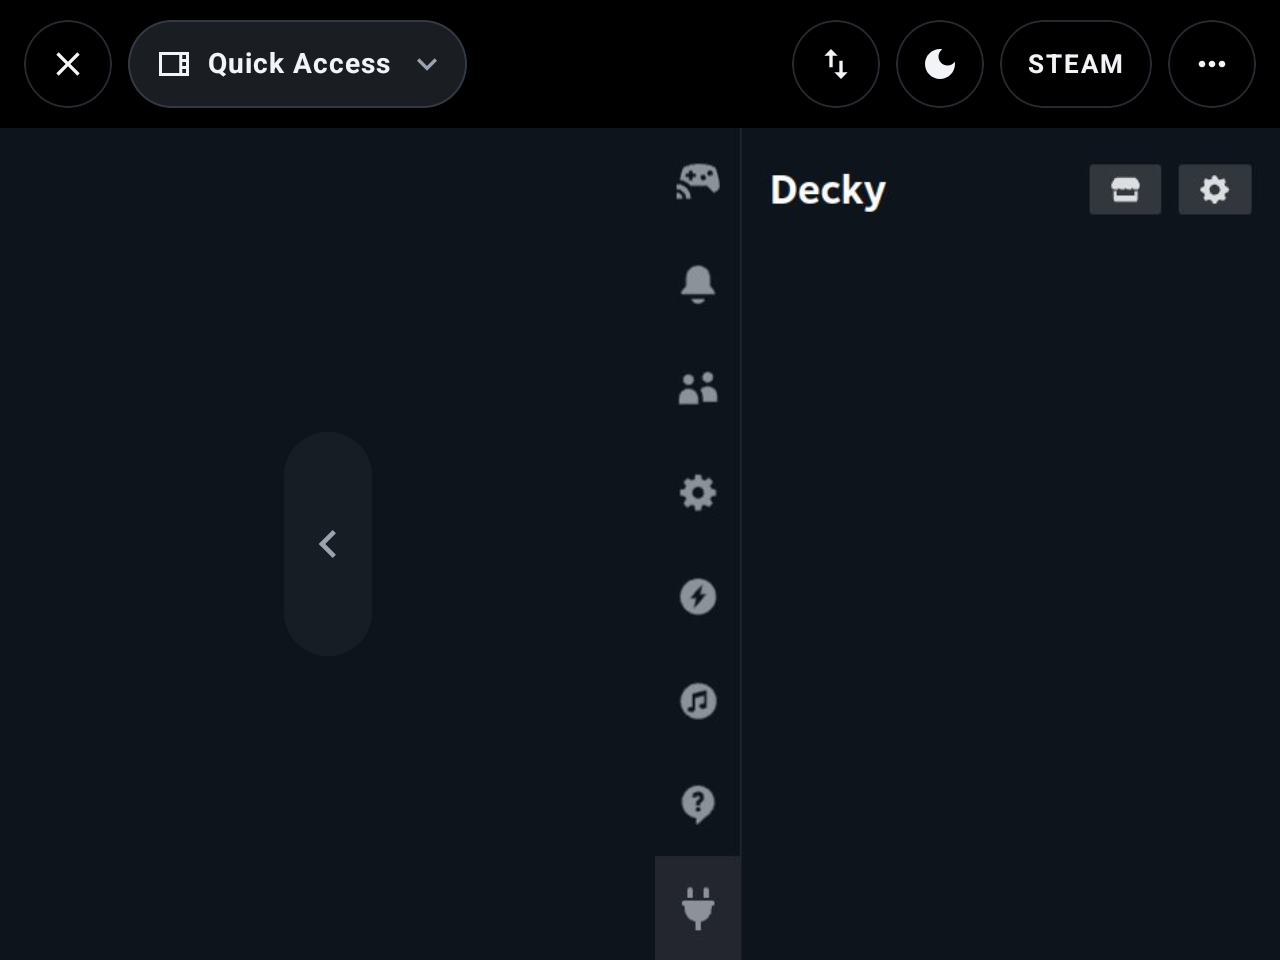
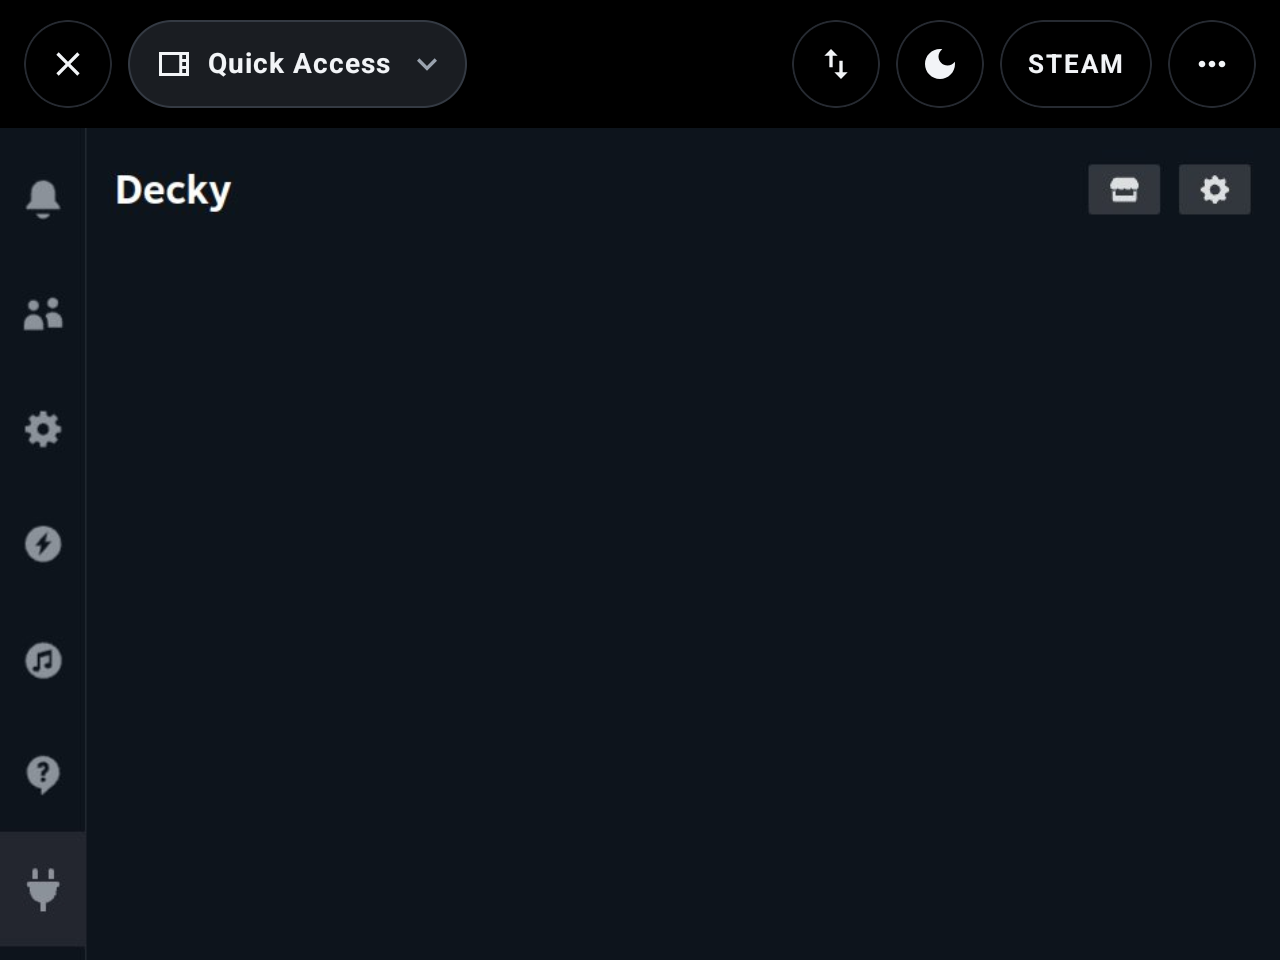
feat(bottom): Quick Access tabs fill the bottom screen

diff --git a/app/src/main/java/com/droiddeck/launcher/ui/BottomSteamQamPanel.kt b/app/src/main/java/com/droiddeck/launcher/ui/BottomSteamQamPanel.kt
@@ -84,8 +84,14 @@ internal object QamLayout {
 
     fun toCss(x: Float, y: Float, scale: Float, left: Float): Pair<Float, Float> = (x - left) / scale to y / scale
 
-    const val CONTENT_SCRIPT = "(() => { const w = innerWidth; let right = 0; for (const e of document.body.querySelectorAll('*')) { " +
-        "const r = e.getBoundingClientRect(); if (r.width > 0 && r.height > 0 && r.width < w * 0.75 && r.right > right) right = r.right; } " +
+    /** Makes the menu follow the panel-shaped view (Steam sizes it once, on open) and lifts each tab's 300 px cap, then measures where the content ends. */
+    const val CONTENT_SCRIPT = "(() => { let s = document.getElementById('dd-qam-wide'); " +
+        "if (!s) { s = document.createElement('style'); s.id = 'dd-qam-wide'; document.head.appendChild(s); } " +
+        "const css = 'div.BasicUI { width: 100% !important; } div[class*=\"tab_\"] { max-width: none !important; }'; " +
+        "if (s.textContent !== css) s.textContent = css; if (document.scrollingElement.scrollLeft) document.scrollingElement.scrollLeft = 0; " +
+        "const w = innerWidth; let right = 0; for (const e of document.body.querySelectorAll('*')) { " +
+        "const r = e.getBoundingClientRect(); const tab = /(^| )tab_/.test(String(e.className)); " +
+        "if (r.width > 0 && r.height > 0 && (tab || r.width < w * 0.75) && r.right > right) right = r.right; } " +
         "return JSON.stringify([w, innerHeight, devicePixelRatio, right]); })()"
 }
 

diff --git a/app/src/main/java/com/droiddeck/launcher/session/SteamQam.kt b/app/src/main/java/com/droiddeck/launcher/session/SteamQam.kt
@@ -71,7 +71,8 @@ object SteamQam {
                 return;
             }
             const decky = !!g.DeckyPluginLoader?.tabsHook?.qamBrowserViewPatch;
-            if (m.m_eOpenSideMenu === QAM && decky && !g.__ddQamDecky) m.CloseSideMenus();
+            // Decky hooks the menu after Steam starts; the menu has to unmount for its tab to appear, so reopen on the next tick.
+            if (m.m_eOpenSideMenu === QAM && decky && !g.__ddQamDecky) { g.__ddQamDecky = true; m.CloseSideMenus(); return; }
             if (m.m_eOpenSideMenu === 0) {
                 m.OpenQuickAccessMenu(g.__ddQamTab ?? undefined);
                 g.__ddQamDecky = decky;

diff --git a/docs/development/bottom-screen.md b/docs/development/bottom-screen.md
@@ -170,10 +170,10 @@ Details: [bottom-screen-companion-api.md](bottom-screen-companion-api.md).
 Plugin loaders expose Steam's CEF DevTools so the menu can be viewed in a desktop browser, but it renders only while it is open on the main screen. The panel keeps it open without covering the top screen:
 
 - Steam's UI is told to open the menu and keep it open: its composition request is capped at "notification" while the menu is ours, so gamescope keeps focus on the game, and losing focus no longer closes it. Gamepad focus moves from the menu back to the main UI only when the menu took it, so Steam's own popups keep the controller. The blurred backdrop is hidden.
-- The menu's browser view is placed just outside the Big Picture window through its own `SetBounds`, so it keeps rendering but never shows on top, including while Steam slides it wider for Friends and chat. The view is also given the panel's shape (about 712 × 463 instead of Steam's 856 × 463), so every tab shows at the same scale: Friends uses its compact list until a chat is opened, and the list with the chat then fills the panel.
+- The menu's browser view is placed just outside the Big Picture window through its own `SetBounds`, so it keeps rendering but never shows on top, including while Steam slides it wider for Friends and chat. The view is also given the panel's shape (about 712 × 463 instead of Steam's 856 × 463), and a style on the menu page lifts Steam's 300 px cap on each tab, so every tab fills the panel at one scale, with Friends showing its list and chat side by side.
 - A timer inside Steam keeps this state every 250 ms, so the menu comes back, on the tab it was showing, as soon as Steam's main menu or a full-screen page such as Decky's store closes. It runs on a 5 s lease that the panel renews each second: if the app stops, Steam returns to normal by itself.
 - The hold starts only once the session is ready: holding the menu before Steam's first frame kept gamescope from presenting anything.
-- `droiddeck-qam-relay` relays the app to the DevTools port, which only answers clients inside the guest. The panel streams the menu with `Page.startScreencast`, scales its content to the panel and fills the rest with the menu's own background, and forwards touches on the menu with `Input.dispatchTouchEvent`. When the menu is narrower than the panel, a chevron in the free space on each side steps it left, centre or right; the choice is kept. Returning to the panel shows the last frame at once while the stream reconnects, and the first frame after a cold start takes about 1.4 s.
+- `droiddeck-qam-relay` relays the app to the DevTools port, which only answers clients inside the guest. The panel streams the menu with `Page.startScreencast`, scales its content to the panel and fills the rest with the menu's own background, and forwards touches on the menu with `Input.dispatchTouchEvent`. If a Steam update brings back a narrow tab, a chevron in the free space on each side steps it left, centre or right; the choice is kept. Returning to the panel shows the last frame at once while the stream reconnects, and the first frame after a cold start takes about 1.4 s.
 - Leaving the panel closes the menu and turns the patches off; the Steam button and the normal Quick Access button then work as before. Opening Steam's main menu replaces the Quick Access menu for as long as it is open, as on a Deck.
 
 Checked with Decky Loader 3.3.1 enabled: its tab renders and takes touch, and its store opens full screen on top with the controller, then returns to the Decky tab below. Decky hooks the menu after Steam starts, so the panel reopens it once when that happens.
@@ -184,9 +184,9 @@ Limits: it relies on Steam's minified UI stores and method names, so a client up
 | --- | --- | --- |
 | ![](evidence/bottom-screen-qam-friends-2026-11-27.png) | ![](evidence/bottom-screen-qam-performance-ingame-2026-11-27.png) | ![](evidence/bottom-screen-qam-settings-2026-11-27.png) |
 
-| Decky, centred | Decky, aligned right |
+| Decky | Performance |
 | --- | --- |
-| ![](evidence/bottom-screen-qam-decky-centred-2026-11-27.png) | ![](evidence/bottom-screen-qam-decky-2026-11-27.png) |
+| ![](evidence/bottom-screen-qam-decky-2026-11-27.png) | ![](evidence/bottom-screen-qam-performance-2026-11-27.png) |
 
 The top screen during that game, with the menu open on the bottom: ![](evidence/bottom-screen-qam-top-ingame-2026-11-27.png)
 
